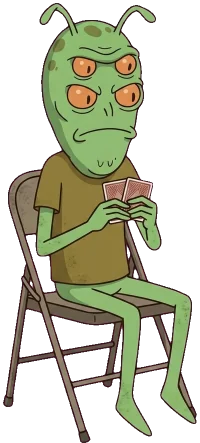
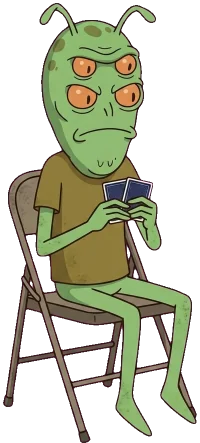
Alien con cartas azul marino y el generador ve los cuadros aprobados
- Alien: el reverso de sus dos cartas ahora es azul marino, como el de los demás personajes. Se
  editó con Gemini (una llamada, $0.04) y solo se tomó la zona de las cartas; el resto es el
  original píxel por píxel. WebP regenerados, del mismo tamaño registrado (400x886).
- generar-personaje.py: actual() también busca los cuadros aprobados en arte/personajes/<id>/. Solo
  veía arte/generadas/ y archivos sueltos en arte/ (donde vivía Blorp), así que creía que a los seis
  personajes les faltaba frente-espera: lo habría redibujado desde cero y habría hecho las demás
  poses del frente sobre ese redibujo.

Changed region(s): [[0.51, 0.3815, 0.78, 0.4989]]

diff --git a/scripts/generar-personaje.py b/scripts/generar-personaje.py
@@ -46,7 +46,8 @@ retirarse (espia y gana son opcionales: solo con --pose <ángulo>-espia o <ángu
 arte/generadas/<personaje>/:
     <personaje>-<ángulo>-<cuadro>.png
 El juego solo necesita frente-espera; los demás se usan en cuanto existen.
-Un cuadro cuenta como hecho si ya existe en arte/ (por ejemplo la propia referencia) o en arte/generadas/.
+Un cuadro cuenta como hecho si ya está aprobado en arte/personajes/<personaje>/, si ya se generó en
+arte/generadas/ o si está suelto en arte/ (por ejemplo la propia referencia).
 Nada se sobrescribe: si se rehace un cuadro, sale como <nombre>-v2.png, -v3.png, etc.
 
 Orden, para que los cuadros de un ángulo queden alineados entre sí:
@@ -111,7 +112,8 @@ def versiones(personaje, nombre):
 
 
 def actual(personaje, nombre, elegidas=None):
-    """La imagen vigente de un cuadro: la versión elegida, la más reciente generada, o la que ya está en arte/."""
+    """La imagen vigente de un cuadro: la versión elegida, la más reciente generada, la ya aprobada en
+    arte/personajes/<personaje>/ o la que está suelta en arte/."""
     vs = versiones(personaje, nombre)
     clave = nombre[len(personaje) + 1:]
     if elegidas and clave in elegidas:
@@ -121,8 +123,10 @@ def actual(personaje, nombre, elegidas=None):
         return vs[v]
     if vs:
         return vs[max(vs)]
-    original = os.path.join(ARTE, nombre + ".png")
-    return original if os.path.exists(original) else None
+    for original in (os.path.join(ARTE, "personajes", personaje, nombre + ".png"), os.path.join(ARTE, nombre + ".png")):
+        if os.path.exists(original):
+            return original
+    return None
 
 
 def ruta_nueva(personaje, nombre):
